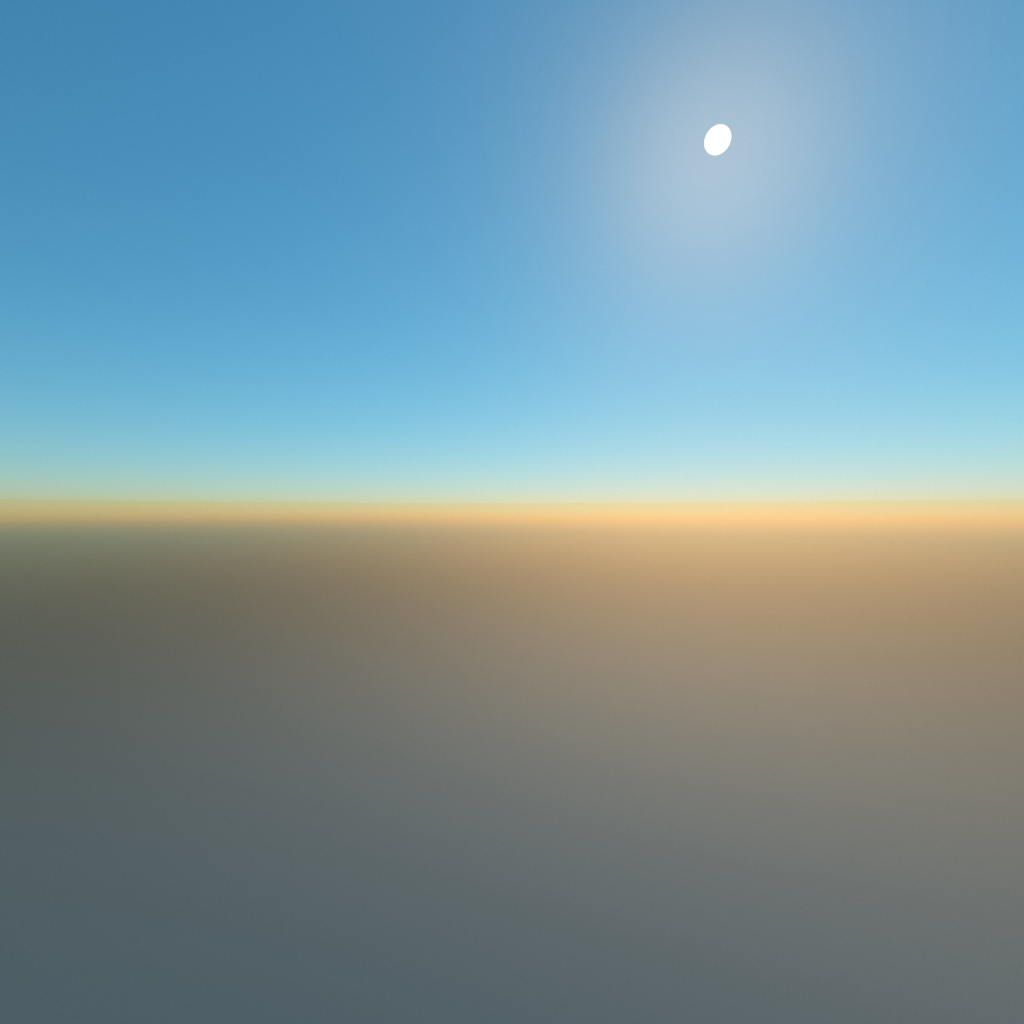
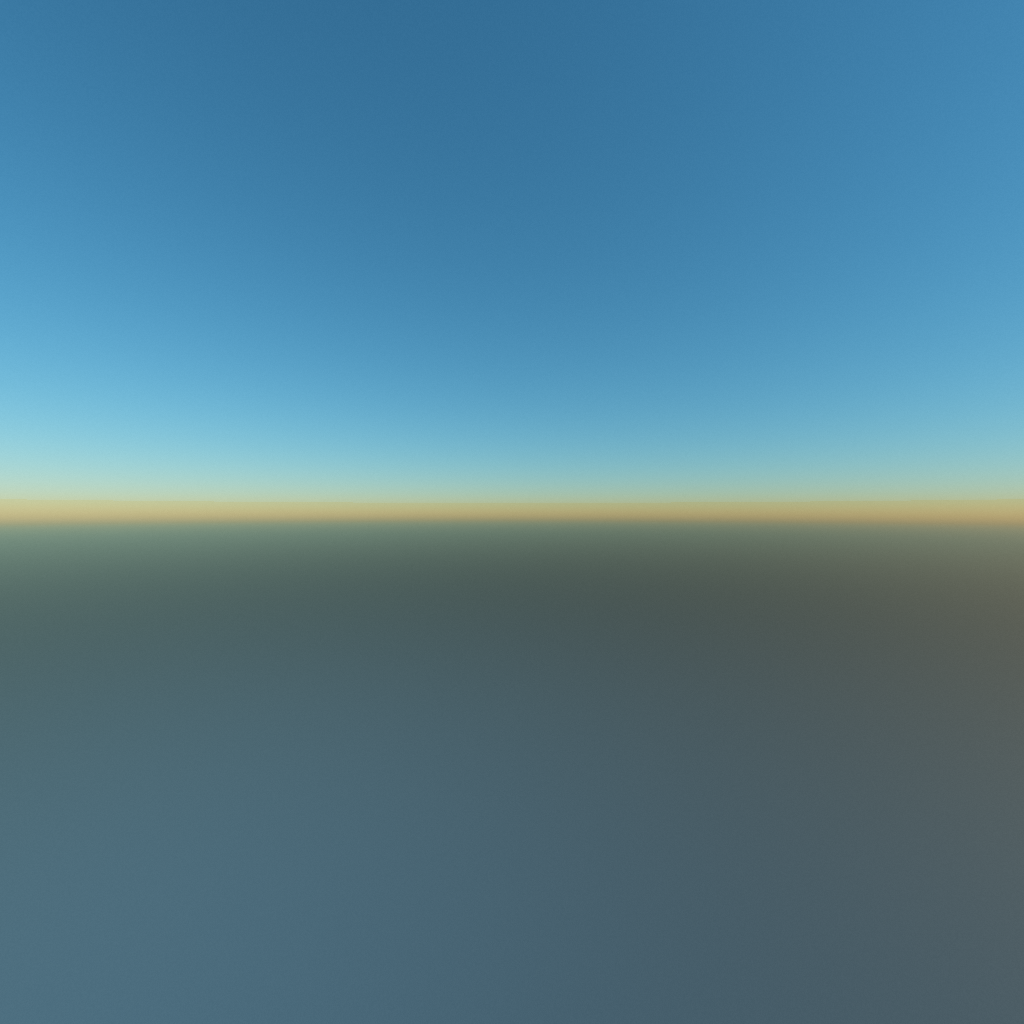
added skybox and working but need some simple fixes

diff --git a/main.py b/main.py
@@ -25,6 +25,52 @@ WORLD_UP = pyrr.Vector3([0.0, 1.0, 0.0])         # Positive Y-axis is "up"
         ###Defining the voxel shape###
 ####################################################################################
 
+##SKYBOX vertices
+skybox_vertices = np.array([
+    -1.0,  1.0, -1.0,
+    -1.0, -1.0, -1.0,
+     1.0, -1.0, -1.0,
+     1.0, -1.0, -1.0,
+     1.0,  1.0, -1.0,
+    -1.0,  1.0, -1.0,
+
+    -1.0, -1.0,  1.0,
+    -1.0, -1.0, -1.0,
+    -1.0,  1.0, -1.0,
+    -1.0,  1.0, -1.0,
+    -1.0,  1.0,  1.0,
+    -1.0, -1.0,  1.0,
+
+     1.0, -1.0, -1.0,
+     1.0, -1.0,  1.0,
+     1.0,  1.0,  1.0,
+     1.0,  1.0,  1.0,
+     1.0,  1.0, -1.0,
+     1.0, -1.0, -1.0,
+
+    -1.0, -1.0,  1.0,
+    -1.0,  1.0,  1.0,
+     1.0,  1.0,  1.0,
+     1.0,  1.0,  1.0,
+     1.0, -1.0,  1.0,
+    -1.0, -1.0,  1.0,
+
+    -1.0,  1.0, -1.0,
+     1.0,  1.0, -1.0,
+     1.0,  1.0,  1.0,
+     1.0,  1.0,  1.0,
+    -1.0,  1.0,  1.0,
+    -1.0,  1.0, -1.0,
+
+    -1.0, -1.0, -1.0,
+    -1.0, -1.0,  1.0,
+     1.0, -1.0, -1.0,
+     1.0, -1.0, -1.0,
+    -1.0, -1.0,  1.0,
+     1.0, -1.0,  1.0,
+], dtype=np.float32)
+
+
 # Define vertices (corners)
 vertices = np.array([
     
@@ -156,7 +202,7 @@ def load_texture_skybox(facePaths):
     # Upload image to OpenGL
 
     # Create texture ID
-    textureID = glGenTextures(i)
+    textureID = glGenTextures(1)
     glBindTexture(GL_TEXTURE_CUBE_MAP, textureID)
     # Texture wrapping options
     glTexParameteri(GL_TEXTURE_CUBE_MAP, GL_TEXTURE_MAG_FILTER,GL_LINEAR)
@@ -178,8 +224,8 @@ def load_texture_skybox(facePaths):
         glTexImage2D(GL_TEXTURE_CUBE_MAP_POSITIVE_X+i, 0, GL_RGBA, width, height, 0,
                  GL_RGBA, GL_UNSIGNED_BYTE, img_data)
 
-        glGenerateMipmap(GL_TEXTURE_CUBE_MAP)
-        glBindTexture(GL_TEXTURE_CUBE_MAP,0)
+    glGenerateMipmap(GL_TEXTURE_CUBE_MAP)
+    glBindTexture(GL_TEXTURE_CUBE_MAP,0)
 
     return textureID 
 
@@ -229,12 +275,12 @@ def main():
     snowtext=load_texture(TexturesDir+"/snowTexture.jpg")
     dirttext=load_texture(TexturesDir+"/DirtTexture.jpg")
 
-    skyboxText0=os.open(TexturesDir+"/cubemap_0.png")
-    skyboxText1=os.open(TexturesDir+"/cubemap_1.png")
-    skyboxText2=os.open(TexturesDir+"/cubemap_2.png")
-    skyboxText3=os.open(TexturesDir+"/cubemap_3.png")
-    skyboxText4=os.open(TexturesDir+"/cubemap_4.png")
-    skyboxText5=os.open(TexturesDir+"/cubemap_5.png")
+    skyboxText0=TexturesDir+"/cubemap_1.png"
+    skyboxText1=TexturesDir+"/cubemap_1.png"
+    skyboxText2=TexturesDir+"/cubemap_2.png"
+    skyboxText3=TexturesDir+"/cubemap_3.png"
+    skyboxText4=TexturesDir+"/cubemap_4.png"
+    skyboxText5=TexturesDir+"/cubemap_5.png"
     
     skyboxFaces=[skyboxText0,skyboxText1,skyboxText2,skyboxText3,skyboxText4,skyboxText5]
 
@@ -250,18 +296,27 @@ def main():
 
     vertexPath=os.path.join(ShaderDir,"noise.vert")
     fragPath=os.path.join(ShaderDir,"shader.frag")
+    skyboxVertPath=os.path.join(ShaderDir,"skybox.vert")
+    skyboxfragPath=os.path.join(ShaderDir,"skybox.frag")
 
     with open(vertexPath, 'r') as f:
         vertexSrc= f.read()
 
     with open(fragPath, 'r') as f:
         fragmentSrc= f.read()
+
+    with open(skyboxVertPath, 'r') as f:
+        skyboxVertsrc= f.read()
+
+    with open(skyboxfragPath, 'r') as f:
+        skyboxFragsrc= f.read()
     
     ######################################################
     #Create Shader
     #######################################################
 
     ShaderProgram=CreateShaderProgram(vertexSrc,fragmentSrc)
+    SkyboxShader=CreateShaderProgram(skyboxVertsrc,skyboxFragsrc)
 
     ######################################################
     # VBO and VAO setup
@@ -312,9 +367,10 @@ def main():
     skyBoxVAO.bind()
 
     #--Vertex Data
-    skyBoxVBO=VBO(vertices)
-    ebo=ebo(indices)
-    ebo_ID=ebo.ID
+    skyBoxVBO=VBO(skybox_vertices)
+
+    skyBoxVAO.LinkVBO(skyBoxVBO,0,3,GL_FLOAT,3*4,0)
+
 
 
     # Setup ImGui
@@ -333,7 +389,15 @@ def main():
     view_loc = glGetUniformLocation(ShaderProgram, "view")
     proj_loc = glGetUniformLocation(ShaderProgram, "projection")
     
+
+    glUseProgram(SkyboxShader)
+    glUniform1i(glGetUniformLocation(SkyboxShader,"skybox"),4)
+
+    view_loc_S =glGetUniformLocation(SkyboxShader,"view")
+    proj_loc_S =glGetUniformLocation(SkyboxShader,"projection")
    
+
+ 
     #Element 
 
     rotationAngle=0.0
@@ -393,22 +457,15 @@ def main():
         keys=pygame.key.get_pressed()
         if keys[pygame.K_w]:
             camera.Position += camera.Orientation* camera.speed
-            print("W is pressed")
-            print(camera.Position)
 
         if keys[pygame.K_s]:
             camera.Position -= camera.Orientation * camera.speed
-            print("S is pressed")
-            print(camera.Position)
 
         if keys[pygame.K_d]:
             camera.Position +=   camera.Right * camera.speed 
-            print("d is pressed")
-            print(camera.Position)
 
         if keys[pygame.K_a]:
             camera.Position -=  camera.speed * camera.Right 
-            print("a is pressed")
 
         if keys[pygame.K_SPACE]:
             camera.Position += WORLD_UP * camera.speed 
@@ -437,6 +494,7 @@ def main():
         camera.update_vectors()
     
 
+        glUseProgram(ShaderProgram)
         projection ,view=camera.Matrix(FOVdeg=45.0,nearPlane=0.1,farPlane=500.0)
         glUniformMatrix4fv(view_loc,1,GL_FALSE,view)
         glUniformMatrix4fv(proj_loc,1,GL_FALSE,projection)
@@ -512,10 +570,6 @@ def main():
         
 
 
-        
-        
-
-        
         #Perlin Noise Text
         glActiveTexture(GL_TEXTURE5)
         glBindTexture(GL_TEXTURE_2D,PerlinNoise1)
@@ -529,6 +583,7 @@ def main():
         glUniform1iv(glGetUniformLocation(ShaderProgram,"BlockTextures"),
                      4,np.array([0,1,2,3],dtype=np.int32))
 
+
         VAO1.bind()
 
         #Call world generation func
@@ -539,6 +594,28 @@ def main():
         CubeVBO.unbind()
         InstanceVBO.unbind()
 
+
+        ##Skybox DRAWING
+        view_no_translate=view.copy()
+        view_no_translate[3][:3]=0
+ 
+        
+        glDepthFunc(GL_LEQUAL)
+
+        glUseProgram(SkyboxShader)
+        glUniformMatrix4fv(view_loc_S, 1, GL_FALSE, view_no_translate)
+        glUniformMatrix4fv(proj_loc_S, 1, GL_FALSE, projection)
+
+        skyBoxVAO.bind()
+        
+        glActiveTexture(GL_TEXTURE4)
+        glBindTexture(GL_TEXTURE_CUBE_MAP,Skybox)
+
+        glDrawArrays(GL_TRIANGLES, 0, 36)
+
+        glDepthFunc(GL_LESS)
+
+ 
 
         # Render ImGui on top
         imgui.render()
